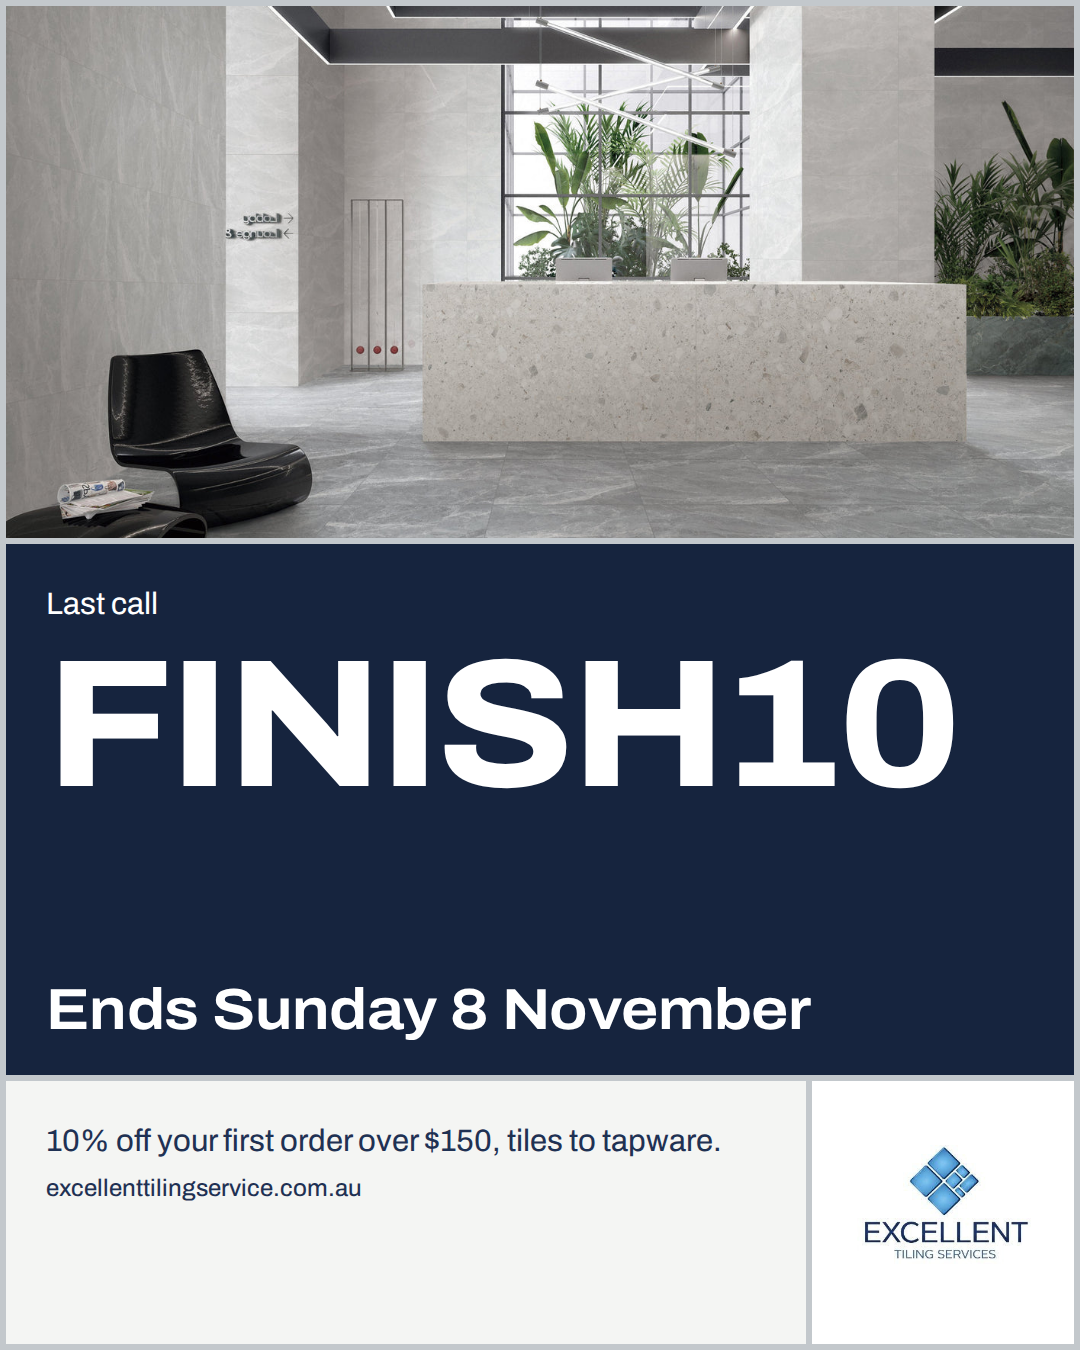
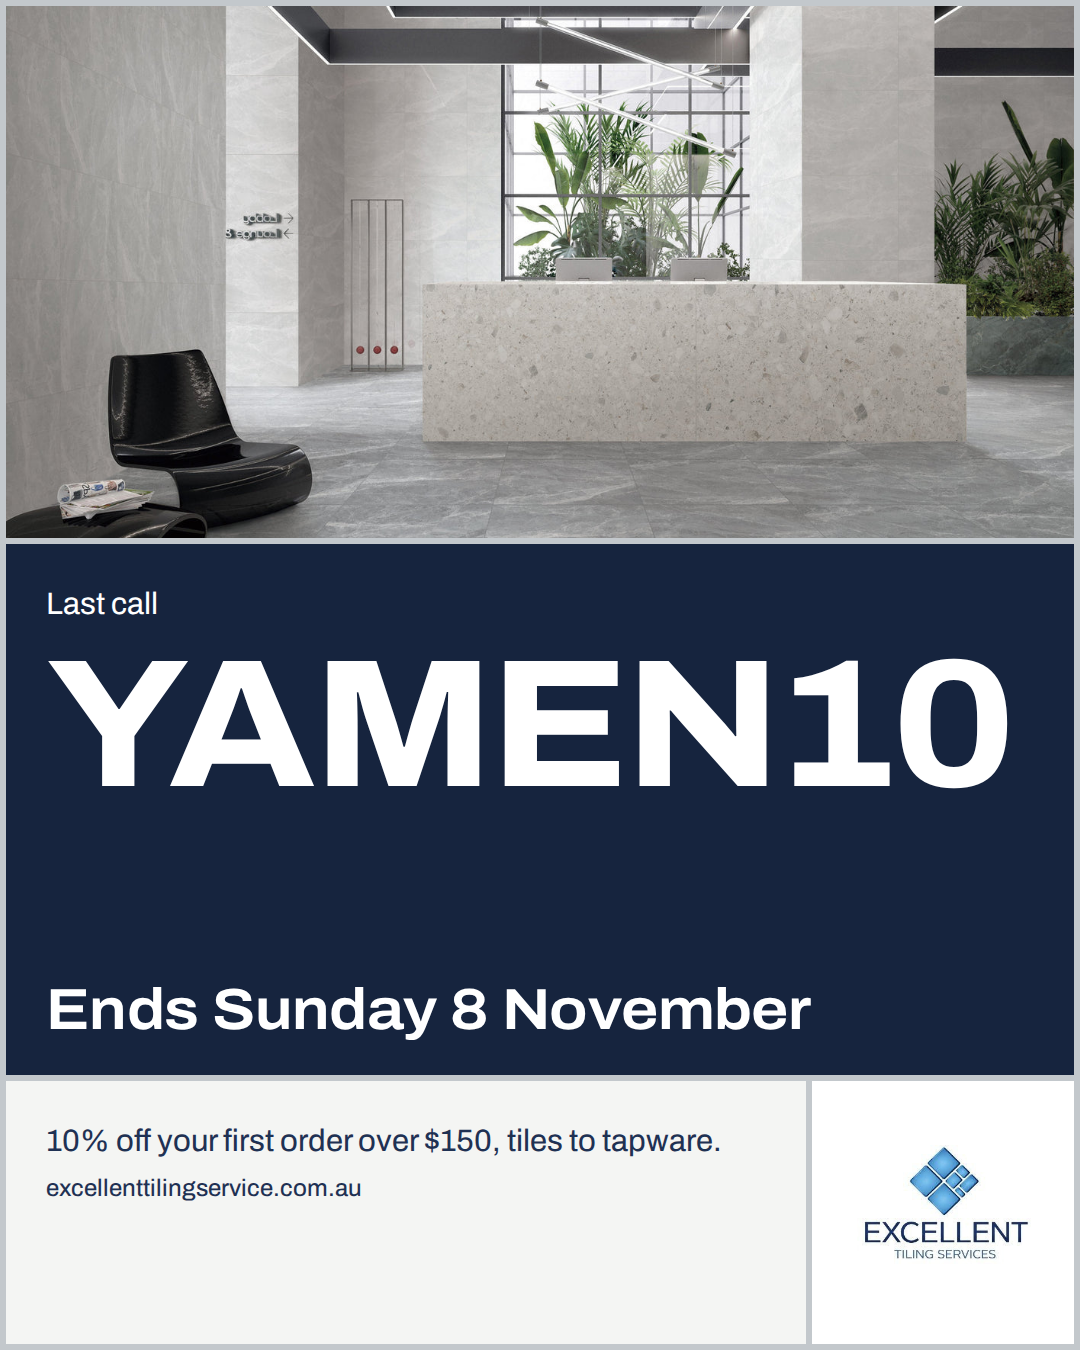
Rename campaign discount code to YAMEN10
Claude-Session: https://claude.ai/code/session_01Y6UKLN7V2VAdSWW4mDpHRp

Changed region(s): [[0.0306, 0.4667, 0.9472, 0.5911]]

diff --git a/marketing/finish-it-right/source/build.py b/marketing/finish-it-right/source/build.py
@@ -53,7 +53,7 @@ posts={
  f'<div class="t" {a("1/4","5/6")}><h2 style="font-size:52px">Porcelain tiles from $37.40/m²</h2><p class="small" style="margin-top:14px">Perth delivery or free pickup. Sold by the full box.</p></div>'+
  f'<div class="t blue" {a("4/5","5/6")}></div>',
 'A2-5-code':
- f'<div class="t deep" {a("1/5","1/4")}><p>Use code</p><div class="code" style="margin-top:30px">FINISH10</div><p class="bot" style="font-size:40px">10% off your first order over $150</p></div>'+
+ f'<div class="t deep" {a("1/5","1/4")}><p>Use code</p><div class="code" style="margin-top:30px">YAMEN10</div><p class="bot" style="font-size:40px">10% off your first order over $150</p></div>'+
  f'<div class="t" {a("1/4","4/6")}><h2>Ends Sunday 8&nbsp;November</h2><p class="bot">{URL}</p></div>'+
  f'<div class="t blue" {a("4/5","4/5")}></div>'+LOGO('4/5','5/6'),
 'C3-showroom':
@@ -63,7 +63,7 @@ posts={
  f'<div class="t" {a("3/4","5/6")}><p class="small">17A Olga Road, Maddington<br><br>0450 960 543</p></div>'+LOGO('4/5','5/6'),
 'D3-last-call':
  img('hail-room.jpg','1/5','1/3')+
- f'<div class="t deep" {a("1/5","3/5")}><p>Last call</p><div class="code" style="margin-top:24px">FINISH10</div><h2 class="bot" style="font-size:58px">Ends Sunday 8 November</h2></div>'+
+ f'<div class="t deep" {a("1/5","3/5")}><p>Last call</p><div class="code" style="margin-top:24px">YAMEN10</div><h2 class="bot" style="font-size:58px">Ends Sunday 8 November</h2></div>'+
  f'<div class="t" {a("1/4","5/6")}><p>10% off your first order over $150, tiles to tapware.</p><p class="small" style="margin-top:12px">{URL}</p></div>'+LOGO('4/5','5/6'),
 }
 
@@ -74,7 +74,7 @@ posts.update({
  img('handshower.jpg','3/4','3/5','fit','Hand shower $151','dark')+
  img('towelrail.png','4/5','3/4','fit','Towel rail $94','dark')+
  img('paper.png','4/5','4/5','fit','Roll holder $46','dark')+
- f'<div class="t" {a("1/4","5/6")}><p>All MELA FLOVA. Add code FINISH10 for another 10% off orders over $150.</p></div>'+LOGO('4/5','5/6'),
+ f'<div class="t" {a("1/4","5/6")}><p>All MELA FLOVA. Add code YAMEN10 for another 10% off orders over $150.</p></div>'+LOGO('4/5','5/6'),
 'B3-prices':
  f'<div class="t" {a("1/5","1/3")}><h1 style="font-size:112px">Every price is on the website</h1></div>'+
  f'<div class="t navy" {a("1/3","3/5")}><h2>No “call for price”</h2><p class="bot">Tiles, tapware, vanities and tools, all priced online, all buyable tonight.</p></div>'+
@@ -110,7 +110,7 @@ posts.update({
  f'<div class="t navy" {a("1/5","4/6")}><h1 style="font-size:116px">Chrome or matt black?</h1><p class="bot" style="font-size:38px">Same mixer, $189 or $217. Vote below.</p></div>'+
  f'<div class="t" {a("1/5","6/8")}><p style="font-size:34px;color:#8a919a">Poll sticker goes here</p></div>',
 'S-countdown':
- f'<div class="t deep" {a("1/5","1/5")}><p style="font-size:40px">Last day tomorrow</p><div class="code" style="margin-top:40px">FINISH10</div><p class="bot" style="font-size:44px">10% off your first order over $150</p></div>'+
+ f'<div class="t deep" {a("1/5","1/5")}><p style="font-size:40px">Last day tomorrow</p><div class="code" style="margin-top:40px">YAMEN10</div><p class="bot" style="font-size:44px">10% off your first order over $150</p></div>'+
  f'<div class="t" {a("1/5","5/7")}><p style="font-size:34px;color:#8a919a">Countdown sticker goes here</p></div>'+
  f'<div class="t blue" {a("1/4","7/8")}><h2 style="font-size:52px">Tap the link to shop</h2></div>'+LOGO('4/5','7/8'),
 'S-showroom':

diff --git a/marketing/finish-it-right/README.md b/marketing/finish-it-right/README.md
@@ -5,14 +5,14 @@ Ready-to-post graphics. Feed posts are 1080×1350 (Instagram/Facebook portrait);
 
 | File | Use |
 | --- | --- |
-| A2-1 … A2-5 | FINISH10 launch carousel (post in order) |
+| A2-1 … A2-5 | YAMEN10 launch carousel (post in order) |
 | A3-idea | Bathroom idea: BRITTANY oak vanity |
 | B2-refresh | $480 FLOVA bathroom refresh |
 | B3-prices | Every price is online |
 | C2-tile-looks | Four porcelain floors |
 | C3-showroom | Evening showroom hours |
 | D2-trade | Trade accounts |
-| D3-last-call | FINISH10 last call |
+| D3-last-call | YAMEN10 last call |
 | R-B1 / R-C1 / R-D1 | Reel covers: unboxing, vanity install, tiling mistakes |
 | S-poll / S-countdown / S-showroom / S-trade | Story frames (add the poll/countdown sticker in Instagram) |
 
